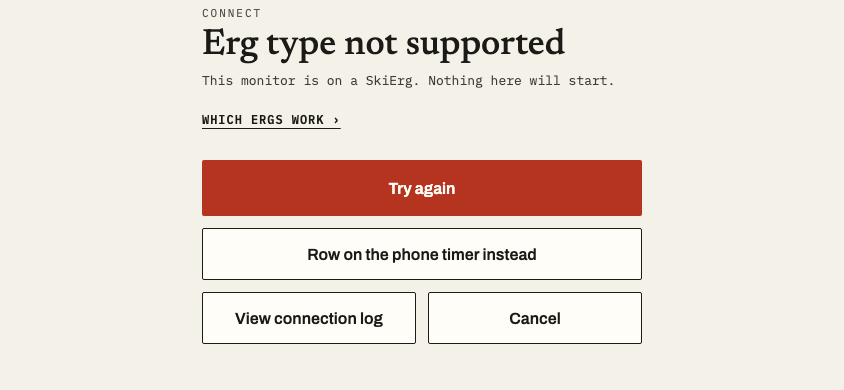
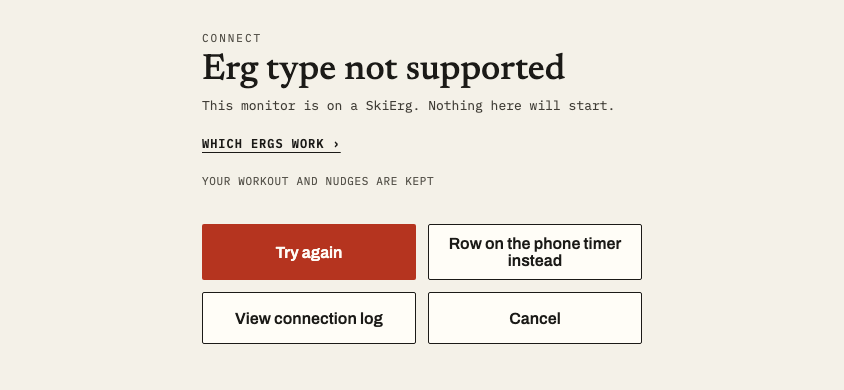
The visual record of both failure frames, and the churn that hides it
`connected-interstitial-failed-landscape.png` — the capture that has stood as
this defect's own evidence since #366, showing a headline nobody could reach —
now shows the whole frame: headline, reassurance, DETAIL panel and two rows of
paired buttons. The refusal capture re-centres.

Only those two are committed, and that needed measuring: `pnpm screenshots`
rewrites 64 of its 201 captures on every run with NO code change (run,
`git checkout --`, run again — same 64 come back). Committing the lot would
have buried a three-frame change in sixty files of noise. Filed as its own
ROADMAP row.

Claude-Session: https://claude.ai/code/session_01UEXqdgDid4Qjd8D5uoRZ3H

Changed region(s): [[0.2156, 0.0, 0.7701, 0.7385]]

diff --git a/ROADMAP.md b/ROADMAP.md
@@ -212,6 +212,16 @@ spec, PM final gate on the PR, and Gate 0 on the rendered refusal screen.
       leaves ALL SEVEN failure-frame assertions in `design.spec.ts` green, so
       `-n + 4` is approved on the Gate 0 captures and pinned by nothing. Either
       a seam on that adapter or an accepted gap; not decided. **S**
+- [ ] **`pnpm screenshots` rewrites 64 of its 201 captures on every run, with
+      no code change at all.** Measured 2026-09-08: run it, `git checkout --
+      docs/screenshots/`, run it again on the identical tree — the same 64
+      files come back modified. So a capture PR's `git status` cannot tell the
+      frames a change actually altered from the ones that merely re-rendered,
+      and the committed captures are the visual record every design gate and
+      RF7 leans on. This PR worked around it by adding only the two frames its
+      rule can touch and discarding the rest. Cause unknown; the churn spans
+      concept2, justrow, diagnostics and log captures, so it smells like seeded
+      data or a date rather than antialiasing. **M**
 - [ ] **The permission screen says "your PM5" where it means "your monitor".**
       `useMonitorSession.ts`'s `BluetoothPermissionError` detail reads
       "Ergomatic can't reach your PM5 without Bluetooth." The rower is not being
